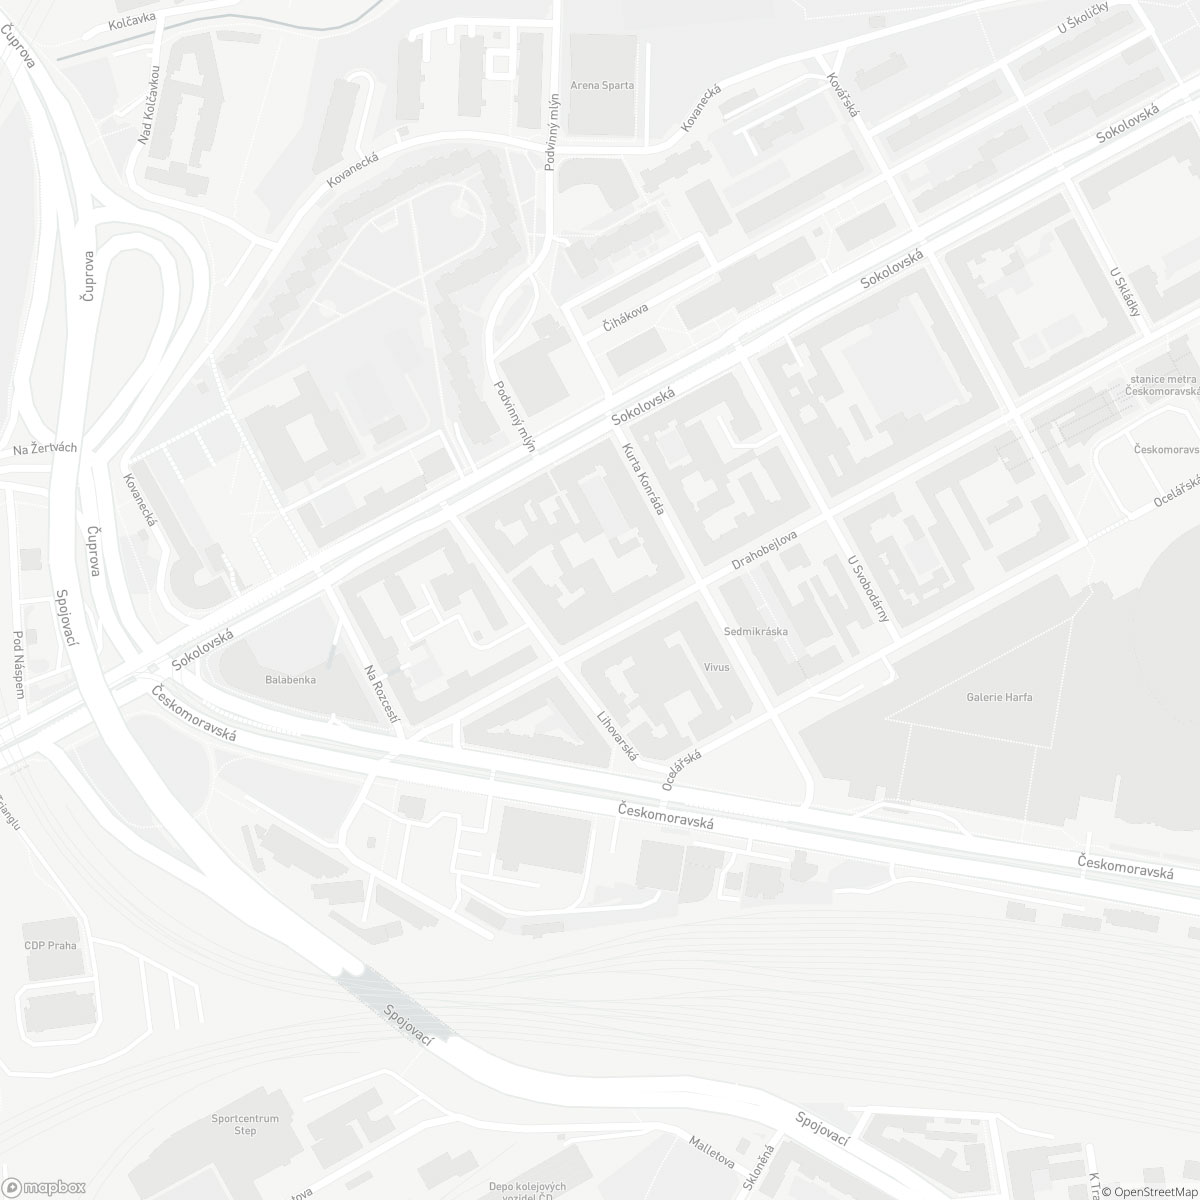
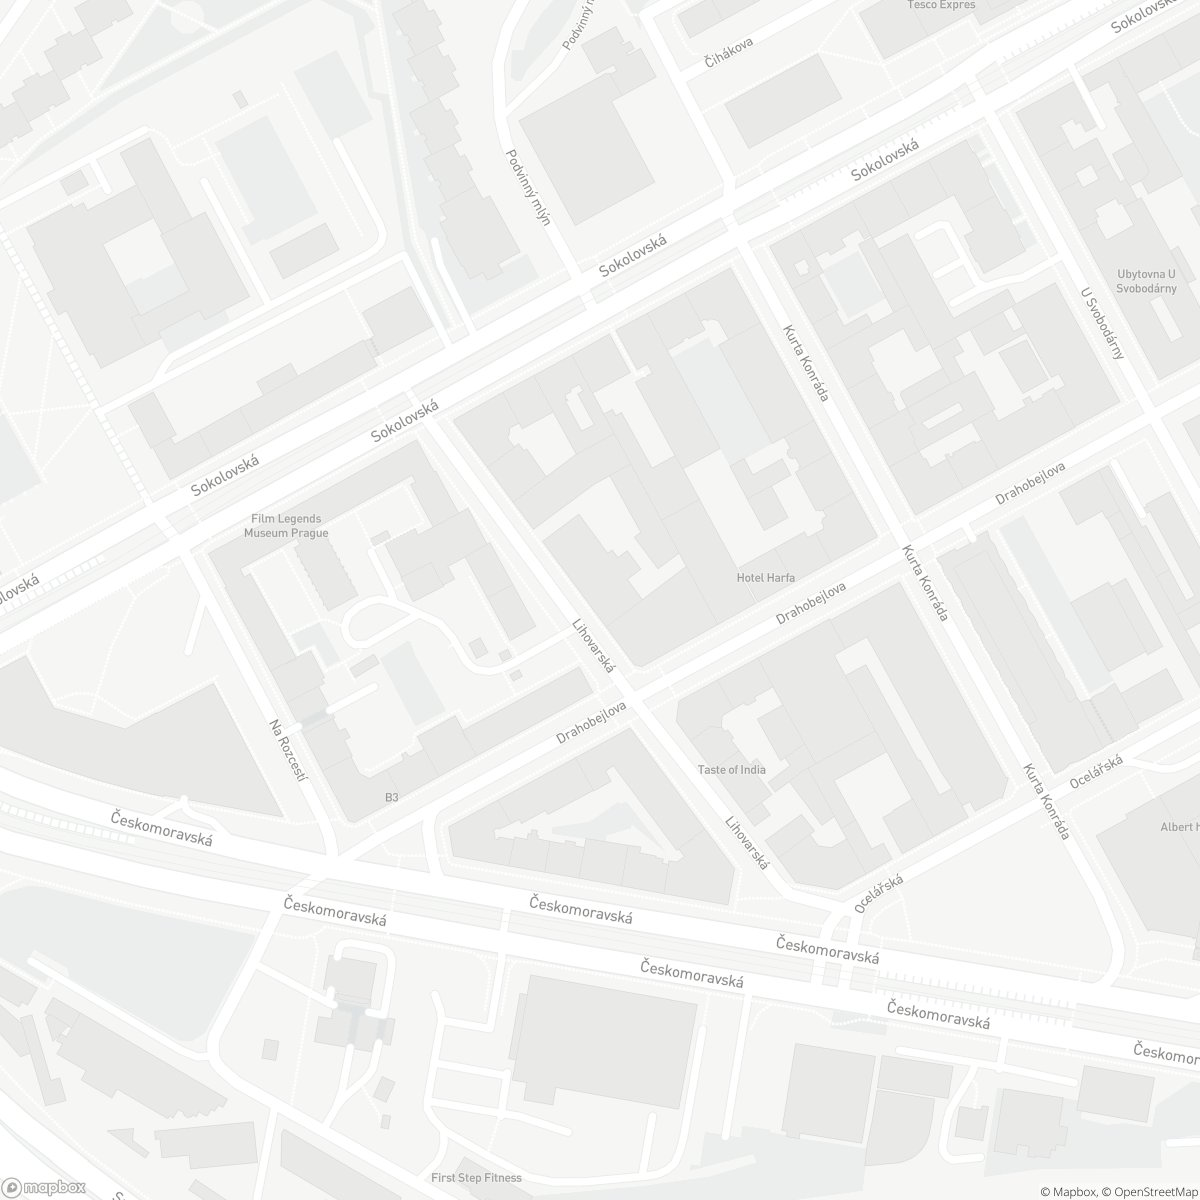
feat: prague studio address update

diff --git a/src/templates/module_07_locations/template.html b/src/templates/module_07_locations/template.html
@@ -4,7 +4,7 @@ name: Locations
 
 {/*
 	Maps source img can be generated via:
-	https://api.mapbox.com/styles/v1/mapbox/light-v9/static/50.1104432,8.7084437,17,0,0/1200x1200?access_token=pk.eyJ1Ijoic2thY3oiLCJhIjoiY2phMmIza2RvM2FmdDJycGNya28yMTFyMiJ9.pXFm2_50vyIgzsfYyxW69Q
+	https://api.mapbox.com/styles/v1/mapbox/light-v10/static/14.486302,50.104893,17,0/1200x1200?access_token=pk.eyJ1Ijoic2thY3oiLCJhIjoiY2tkaGh3bXYxMzB0ajJ5czhxaWZxNnR6ZiJ9.XrlJw-6yXymJTvhURbBasg
 
 	Docs: https://www.mapbox.com/api-documentation/?language=cURL#static
 */}
@@ -109,7 +109,7 @@ name: Locations
 				/>
 		</ElementLink>
 		<ElementLink
-			data-marker="Drahobejlova 2400/15"
+			data-marker="Lihovarská 1060/12"
 			className="map map-prague"
 			rel="noopener noreferrer"
 			href="https://www.google.de/maps/place/Drahobejlova+2400%2F15,+190+00+Praha+9-Libe%C5%88/@50.1050115,14.4846621,17z/data=!3m1!4b1!4m5!3m4!1s0x470becb2d95bdb41:0xf6abbe7239a5b55!8m2!3d50.1050115!4d14.4868508"
@@ -242,7 +242,7 @@ name: Locations
 			<h3 className="city h2-1">Prague</h3>
 			<a href="https://www.sinnerschrader.cz/" target="_blank" rel="noopener noreferrer" className="h4">SinnerSchrader</a>
 			<p className="copy">
-				Drahobejlova 2400/15<br />
+				Lihovarská 1060/12<br />
 				Czech Republic Prague 9<br />
 				+420 776 16 32 58<br />
 				<a href="mailto:info@sinnerschrader.com" className="h4 link">info@sinnerschrader.com</a>
